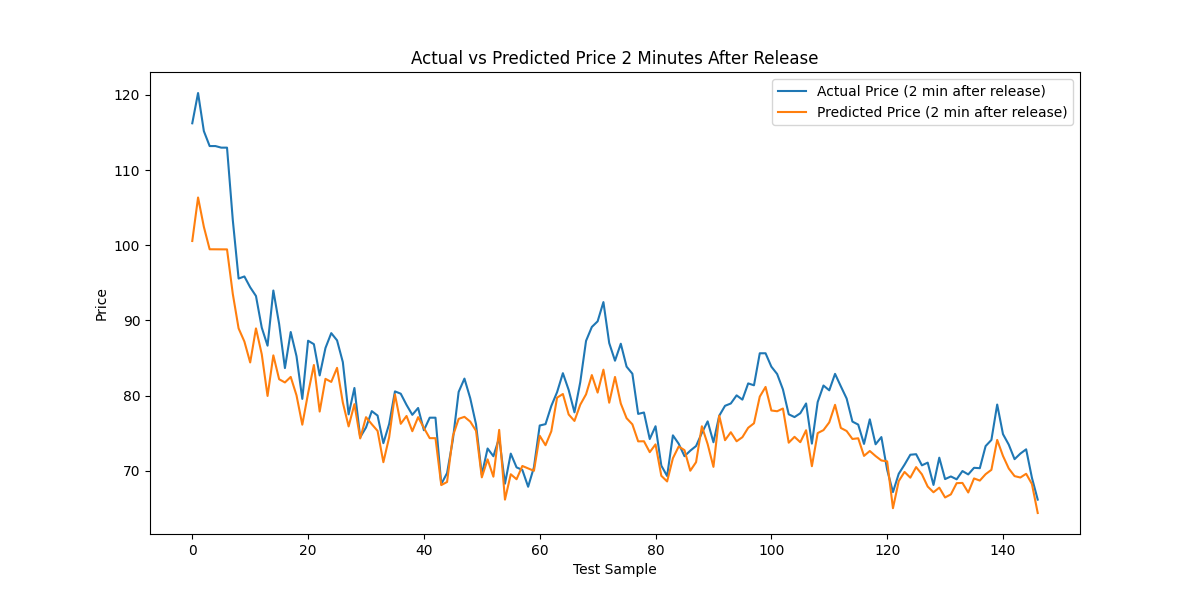
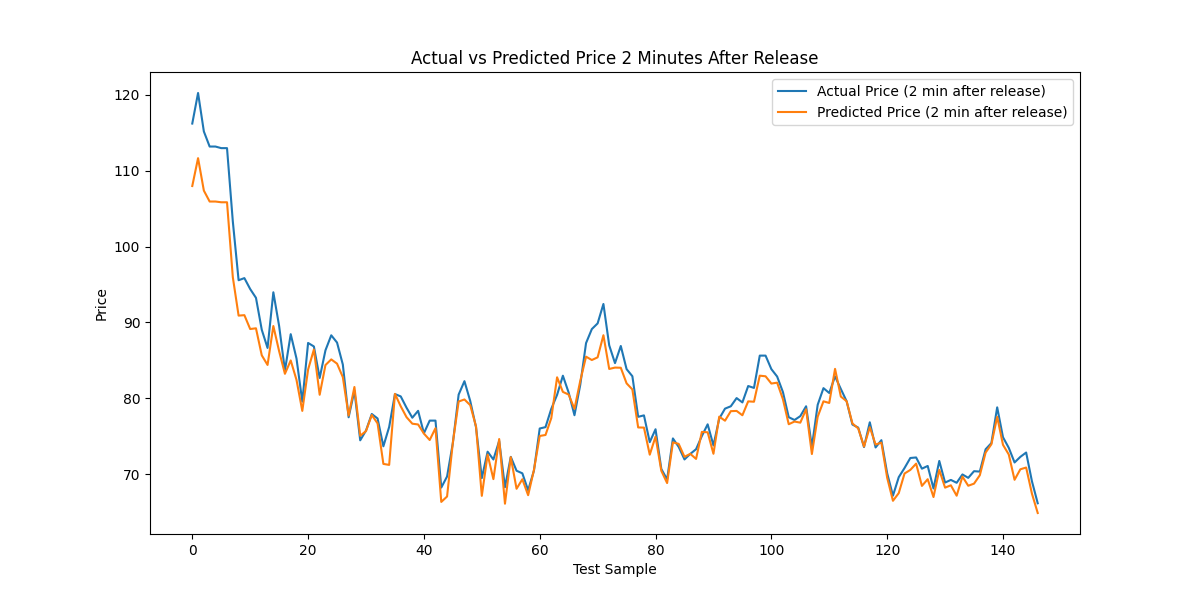
tc

diff --git a/terenceTrainModel.py b/terenceTrainModel.py
@@ -2,7 +2,7 @@ import pandas as pd
 import numpy as np
 from terenceModel import DNN
 from sklearn.preprocessing import StandardScaler
-from sklearn.metrics import mean_absolute_error
+from sklearn.metrics import root_mean_squared_error
 import matplotlib.pyplot as plt
 
 def convert_to_number(value):
@@ -13,31 +13,19 @@ def convert_to_number(value):
 
 def load_and_prepare_data():
     # Load data
-    prod_weekly = pd.read_csv('domestic_prod.csv', encoding='latin1')
-    net_import_weekly = pd.read_csv('net_import.csv', encoding='latin1')
-    supply_weekly = pd.read_csv('InvestingcomEIA.csv', encoding='latin1')
-    price_wide = pd.read_csv('price_window_valid_wide.csv', encoding='latin1') 
+    df = pd.read_csv("full_data.csv")
+
+    feature_cols = [col for col in df.columns if 'Close_t-60'  in col or 'Close_t-40' in col or 'Close_t-20' in col or col == 'Release Date' or col == 'Actual' or col == 'Weekly Net Import' or col == 'Weekly Production' or col == 'Open_t0']
+
+    X_temp = df[feature_cols]
+    y_temp = df['Close_t2']
+
+    prod_weekly = X_temp[['Release Date', 'Weekly Production']]
+    net_import_weekly = X_temp[['Release Date', 'Weekly Net Import']]
+    supply_weekly = X_temp[['Release Date', 'Actual']]
+    price_wide = X_temp[['Release Date', 'Close_t-60', 'Close_t-40', 'Close_t-20', 'Open_t0']]
     
-    # Converting dates
-    prod_weekly['ï»¿Date'] = pd.to_datetime(prod_weekly['ï»¿Date'], format='%b %d, %Y')
-    net_import_weekly['ï»¿Date'] = pd.to_datetime(net_import_weekly['ï»¿Date'], format='%b %d, %Y')
-    supply_weekly['Release Date'] = pd.to_datetime(supply_weekly['Release Date'], format='%d-%b-%y')
-    price_wide['Release_Datetime'] = pd.to_datetime(price_wide['Release_Datetime']).dt.tz_localize(None)
-    
-    # Convert M to one million
-    supply_weekly['Actual'] = supply_weekly['Actual'].apply(convert_to_number)
-    supply_weekly['Forecast'] = supply_weekly['Forecast'].apply(convert_to_number)
-    supply_weekly['Previous'] = supply_weekly['Previous'].apply(convert_to_number)
-    
-    # Filter date range for weekly data and price_wide data
-    start_date = pd.to_datetime('2012-01-01')
-    end_date = pd.to_datetime('2025-01-01')
-    prod_weekly = prod_weekly[(prod_weekly['ï»¿Date'] >= start_date) & (prod_weekly['ï»¿Date'] < end_date)]
-    net_import_weekly = net_import_weekly[(net_import_weekly['ï»¿Date'] >= start_date) & (net_import_weekly['ï»¿Date'] < end_date)]
-    supply_weekly = supply_weekly[(supply_weekly['Release Date'] >= start_date) & (supply_weekly['Release Date'] < end_date)]
-    price_wide = price_wide[(price_wide['Release_Datetime'] >= start_date) & (price_wide['Release_Datetime'] < end_date)]
-    
-    return prod_weekly, net_import_weekly, supply_weekly, price_wide
+    return prod_weekly, net_import_weekly, supply_weekly, price_wide, y_temp
 
 def prepare_supervised_data_wide(price_wide, weekly_production, weekly_import, weekly_supply, scaler, target_scaler, prod_weekly, net_import_weekly, supply_weekly):
     X = []
@@ -85,8 +73,8 @@ def plot_predictions(predictions, actuals, scaler, save_path='terenceActualVSPre
     actuals_unscaled = scaler.inverse_transform(actuals.reshape(-1, 1)).flatten()
 
     # Calculate MAE on unscaled data
-    mae = mean_absolute_error(actuals_unscaled, predictions_unscaled)
-    print(f"Test MAE (unscaled): {mae:.2f}")
+    rmse = root_mean_squared_error(actuals_unscaled, predictions_unscaled)
+    print(f"Test RMSE (unscaled): {rmse:.2f}")
 
     plt.figure(figsize=(12, 6))
     plt.plot(actuals_unscaled, label='Actual Price (2 min after release)')
@@ -99,79 +87,71 @@ def plot_predictions(predictions, actuals, scaler, save_path='terenceActualVSPre
     plt.show()
 
 def main():
-    prod_weekly, net_import_weekly, supply_weekly, price_wide = load_and_prepare_data()
-    
-    # For features (X): all Close prices used for features
-    all_feature_prices = []
-    all_target_prices = []
-    for idx, row in price_wide.iterrows():
-        all_feature_prices.extend([row['Close_t-60'], row['Close_t-40'], row['Close_t-20'], row['Close_t0']])
-        all_target_prices.append(row['Close_t2'])
-    all_feature_prices = np.array(all_feature_prices)
-    all_target_prices = np.array(all_target_prices)
+    prod_weekly, net_import_weekly, supply_weekly, price_wide, y_temp = load_and_prepare_data()
+
 
     price_scaler = StandardScaler()
-
     target_scaler = StandardScaler()
 
-    # Fit feature scaler on all price data used for features
-    price_scaler.fit(all_feature_prices.reshape(-1, 1))
-    # Fit target scaler on all target prices
-    target_scaler.fit(all_target_prices.reshape(-1, 1))
+    price_features = price_wide[['Close_t-60', 'Close_t-40', 'Close_t-20', 'Open_t0']]
 
+    # Scale the price features in the dataframe
+    for col in ['Close_t-60', 'Close_t-40', 'Close_t-20', 'Open_t0']:
+        price_features[col] = price_scaler.fit_transform(price_wide[col].values.reshape(-1, 1)).flatten()
 
-    # Scale weekly features
-    weekly_features = np.concatenate([
-        prod_weekly['US Weekly Production'].values,
-        net_import_weekly['Weekly Net Import'].values,
-        supply_weekly['Actual'].values
-    ]).reshape(-1, 1)
+    # Scale the target values in the dataframe
+    y_temp = target_scaler.fit_transform(y_temp.values.reshape(-1, 1)).flatten()
 
     #Scaler for weekly data
     weekly_scaler = StandardScaler()
 
-    weekly_scaler.fit(weekly_features)
-    
-    weekly_production_scaled = weekly_scaler.transform(prod_weekly['US Weekly Production'].values.reshape(-1, 1)).flatten()
-    weekly_import_scaled = weekly_scaler.transform(net_import_weekly['Weekly Net Import'].values.reshape(-1, 1)).flatten()
-    weekly_supply_scaled = weekly_scaler.transform(supply_weekly['Actual'].values.reshape(-1, 1)).flatten()
-    
-    # Prepare supervised data
-    X, y = prepare_supervised_data_wide(
-        price_wide, 
-        weekly_production_scaled, 
-        weekly_import_scaled,
-        weekly_supply_scaled,
-        price_scaler,
-        target_scaler,
-        prod_weekly,
-        net_import_weekly,
-        supply_weekly
-    )
+    weekly_production_scaled = weekly_scaler.fit_transform(prod_weekly['Weekly Production'].values.reshape(-1, 1)).flatten()
+    weekly_import_scaled = weekly_scaler.fit_transform(net_import_weekly['Weekly Net Import'].values.reshape(-1, 1)).flatten()
+    weekly_supply_scaled = weekly_scaler.fit_transform(supply_weekly['Actual'].values.reshape(-1, 1)).flatten()
+
+    X = []
+    y = []
+
+    for idx, _ in price_features.iterrows():
+        # Target: price of future 2 minutes after release (already scaled)
+        target_price = y_temp[idx]
+
+        
+        production_value = weekly_production_scaled[idx]
+        import_value = weekly_import_scaled[idx]
+        supply_value = weekly_supply_scaled[idx]
+        production_value = production_value
+        import_value = import_value
+        supply_value = supply_value
+
+        row_data = [price_features['Close_t-60'].values[idx],price_features['Close_t-40'].values[idx],price_features['Close_t-20'].values[idx],price_features['Open_t0'].values[idx],production_value,import_value,supply_value]
+        X.append(row_data)
+        y.append(target_price)
+
+    X = np.array(X)
+    y = np.array(y)
+
     # Time-based 80/20 split
     n = len(X)
     split_idx = int(n * 0.8)
     X_train, X_test = X[:split_idx], X[split_idx:]
     y_train, y_test = y[:split_idx], y[split_idx:]
- 
-    # Initialize model
+
     model = DNN()
-    
+        
     # Train model
     trained_model, _ = model.train(X_train, y_train)
-    
+
     # Evaluate model
-    test_loss, test_mae = trained_model.evaluate(X_test, y_test, verbose=0)
+    test_loss, test_rmse = trained_model.evaluate(X_test, y_test, verbose=0)
     print(f"Test Loss: {test_loss:.2f}")
-    print(f'Test MAE: {test_mae:.2f}')
-    
+    print(f'Test RMSE: {test_rmse:.2f}')
+
     # Predict on test set
     y_pred = trained_model.predict(X_test).flatten()
 
     # Plot and print MAE (unscaled)
     plot_predictions(y_pred, y_test, target_scaler)
-
-    trained_model.save('crude_oil_price_model.h5')
 
     
 if __name__ == "__main__":

diff --git a/terenceModel.py b/terenceModel.py
@@ -1,47 +1,61 @@
 import tensorflow as tf
-from tensorflow.keras.models import Model
-from tensorflow.keras.layers import Dense, Input, Concatenate, Dropout
+from tensorflow.keras import layers, models
 from tensorflow.keras.optimizers import Adam
 from tensorflow.keras.callbacks import EarlyStopping
 import numpy as np
+
+class RMSE(tf.keras.metrics.Metric):
+    def __init__(self, name='rmse', **kwargs):
+        super(RMSE, self).__init__(name=name, **kwargs)
+        self.mse = tf.keras.metrics.MeanSquaredError()
+
+    def update_state(self, y_true, y_pred, sample_weight=None):
+        self.mse.update_state(y_true, y_pred, sample_weight)
+
+    def result(self):
+        return tf.sqrt(self.mse.result())
+
+    def reset_state(self):
+        self.mse.reset_state()
 
 class DNN:
     def __init__(self, learning_rate=0.001):
         self.learning_rate = learning_rate
         self.model = None
+        self.build_model()
 
-    def build_model(self, input_shape=(7,)):
+    def build_model(self):
         """
         Build the model architecture
         input_shape: (7,) for 4 price features + 3 weekly features
         """
         self.reset_session()
 
-        inputs = Input(shape=input_shape)
+        inputs = layers.Input(shape=(7,))
         
         price_features = inputs[:, :4]  # First 4 features are price features
         weekly_features = inputs[:, 4:]  # Last 3 features are weekly data
         
-        price_dense = Dense(16, activation='relu')(price_features)
-        price_dense = Dropout(0.2)(price_dense)
+        price_dense = layers.Dense(16, activation='relu')(price_features)
+        price_dense = layers.Dropout(0.2)(price_dense)
         
-        weekly_dense = Dense(16, activation='relu')(weekly_features)
-        weekly_dense = Dropout(0.2)(weekly_dense)
+        weekly_dense = layers.Dense(16, activation='relu')(weekly_features)
+        weekly_dense = layers.Dropout(0.2)(weekly_dense)
         
         # Combine price and weekly features
-        combined = Concatenate()([price_dense, weekly_dense])
+        combined = layers.Concatenate()([price_dense, weekly_dense])
         
         # Output
-        dense1 = Dense(32, activation='relu')(combined)
-        dense1 = Dropout(0.2)(dense1)
-        outputs = Dense(1)(dense1)
+        dense1 = layers.Dense(32, activation='relu')(combined)
+        dense1 = layers.Dropout(0.2)(dense1)
+        outputs = layers.Dense(1)(dense1)
         
-        model = Model(inputs=inputs, outputs=outputs)
+        model = models.Model(inputs=inputs, outputs=outputs)
         model.compile(optimizer=Adam(learning_rate=self.learning_rate),
                      loss='mse',
-                     metrics=['mae'])
+                     metrics=[RMSE()])
         
-        return model
+        self.model = model
 
     def reset_session(self, seed=42):
         tf.random.set_seed(seed)
@@ -77,7 +91,7 @@ class DNN:
         Make predictions
         X: input features (4 price features + 3 weekly features)
         """
-        return model.predict(X)
+        return self.model.predict(X, verbose=0)
 
     def save(self, filepath):
         """
